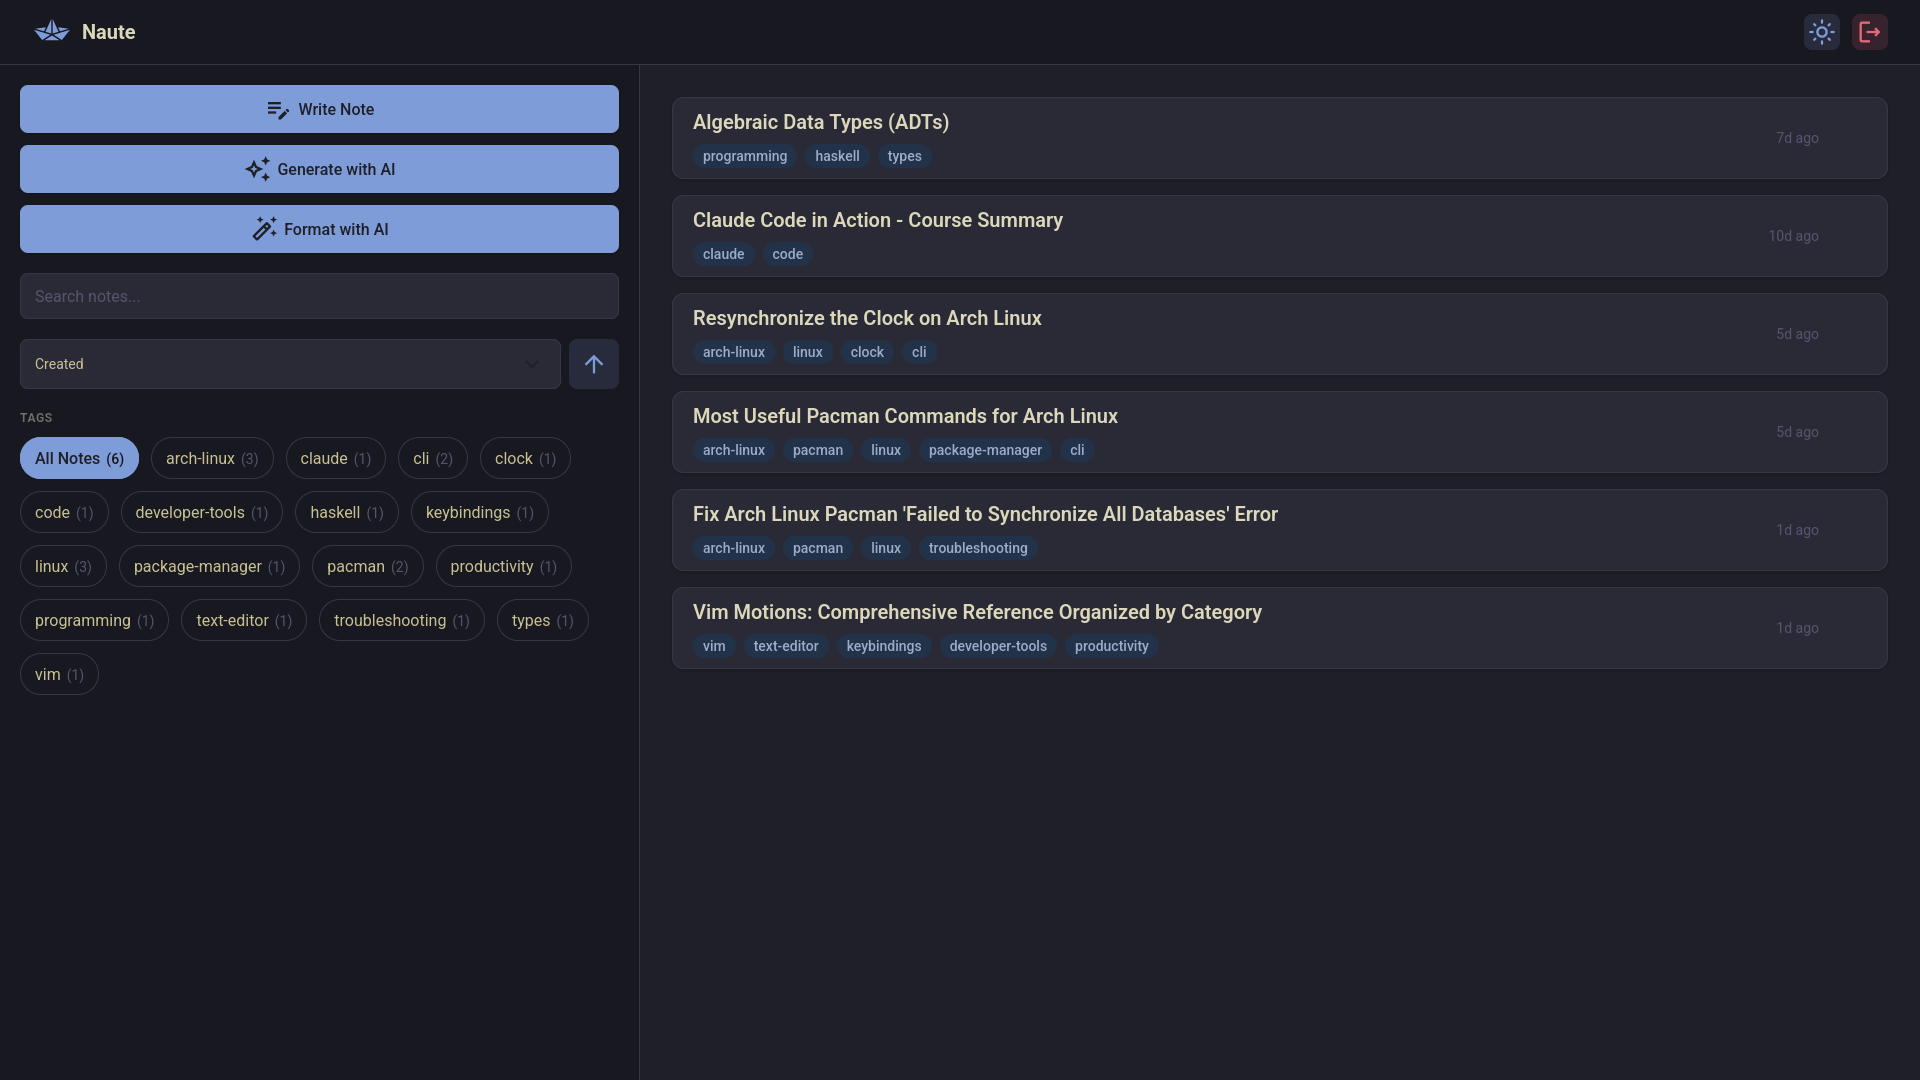
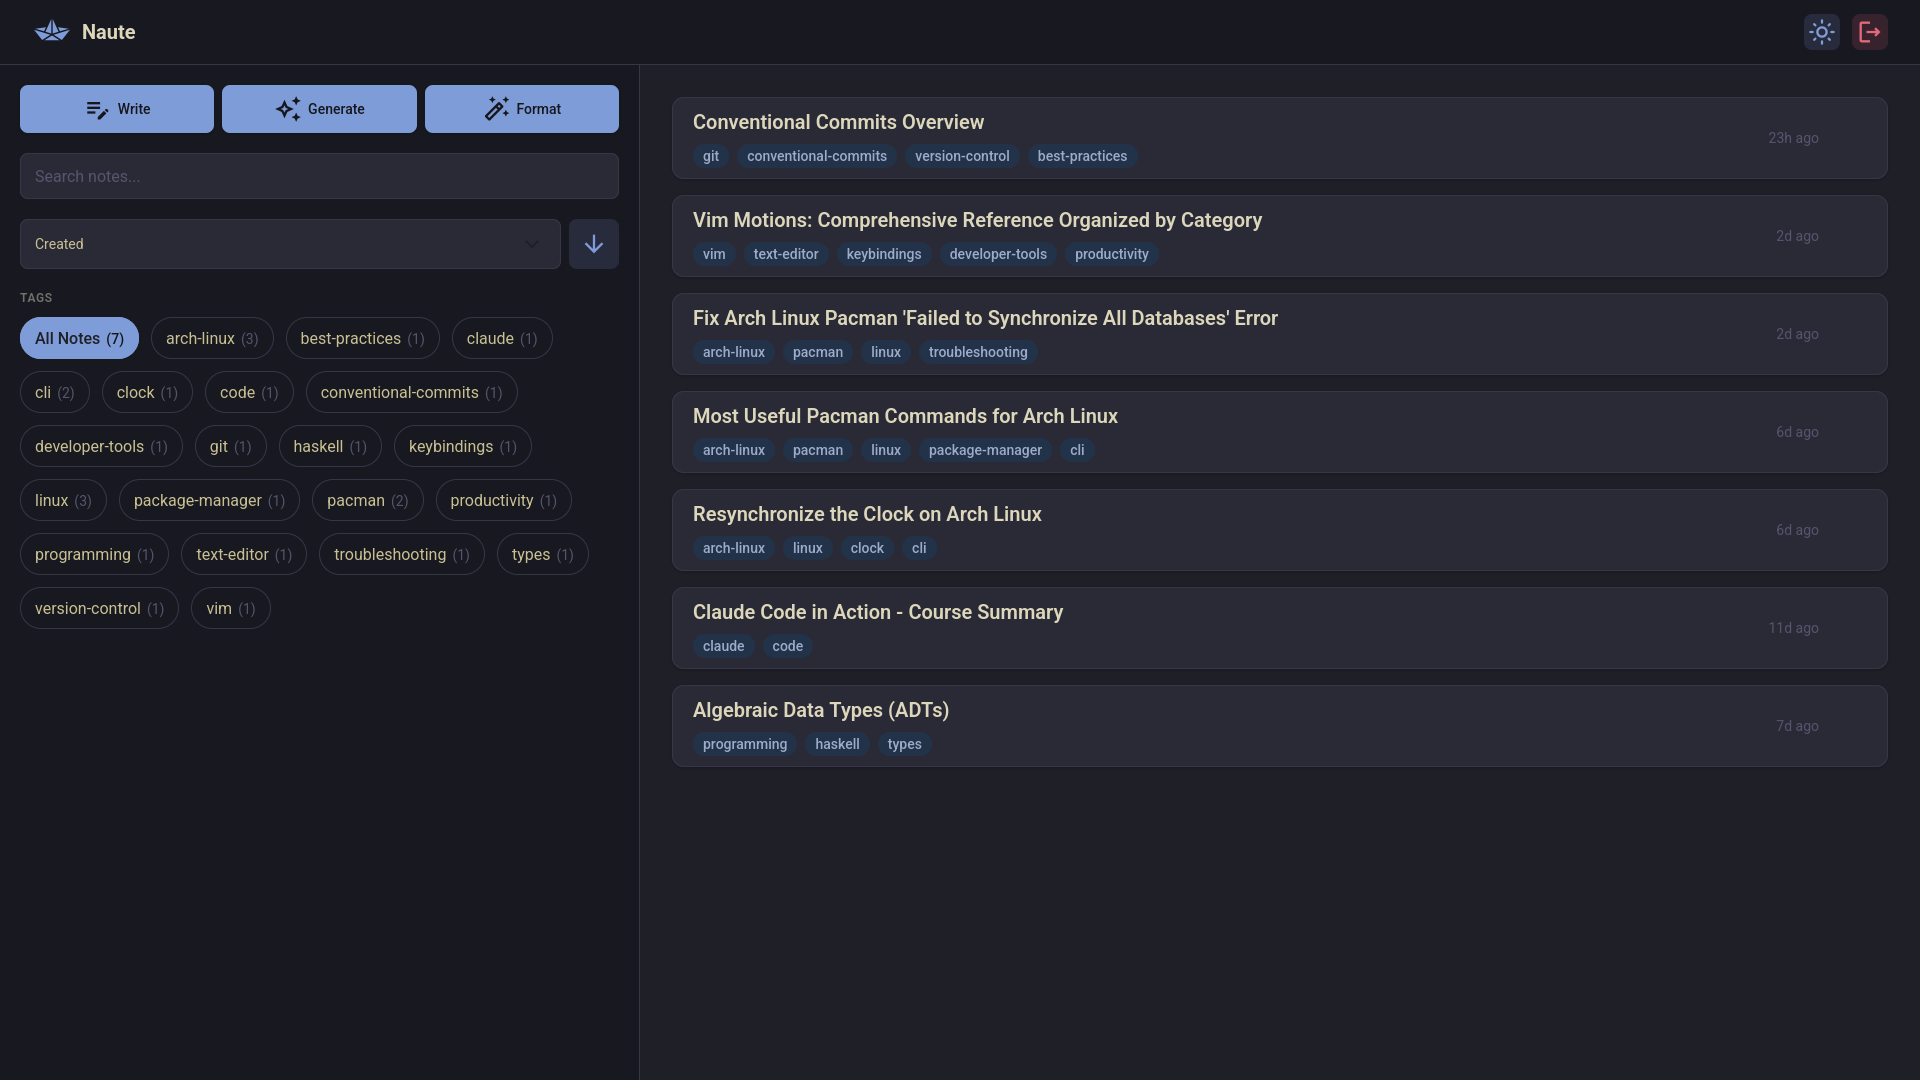
feat: Display note action buttons horizontally to improve page layout.

diff --git a/frontend/src/components/sidebar.tsx b/frontend/src/components/sidebar.tsx
@@ -55,42 +55,44 @@ export const Sidebar = ({
 
   return (
     <div className="flex h-full flex-col p-5">
-      <Link
-        to="/notes/new"
-        className={cn(
-          "mb-3 flex items-center justify-center gap-1.5",
-          "rounded-lg px-4 py-2.5 text-base font-medium",
-          "bg-accent text-accent-fg shadow-soft",
-          "hover:bg-accent-hover transition-colors",
-        )}
-      >
-        <span className="material-icons-outlined text-lg">edit_note</span>
-        Write Note
-      </Link>
-      <button
-        onClick={onGenerateClick}
-        className={cn(
-          "mb-3 flex w-full items-center justify-center gap-1.5",
-          "rounded-lg px-4 py-2.5 text-base font-medium",
-          "bg-accent text-accent-fg shadow-soft",
-          "hover:bg-accent-hover transition-colors",
-        )}
-      >
-        <span className="material-icons-outlined text-lg">auto_awesome</span>
-        Generate with AI
-      </button>
-      <button
-        onClick={onFormatClick}
-        className={cn(
-          "mb-5 flex w-full items-center justify-center gap-1.5",
-          "rounded-lg px-4 py-2.5 text-base font-medium",
-          "bg-accent text-accent-fg shadow-soft",
-          "hover:bg-accent-hover transition-colors",
-        )}
-      >
-        <span className="material-icons-outlined text-lg">auto_fix_high</span>
-        Format with AI
-      </button>
+      <div className="mb-5 flex gap-2">
+        <Link
+          to="/notes/new"
+          className={cn(
+            "flex flex-1 items-center justify-center gap-1.5",
+            "rounded-lg px-3 py-2.5 text-sm font-medium",
+            "bg-accent text-accent-fg shadow-soft",
+            "hover:bg-accent-hover cursor-pointer transition-colors",
+          )}
+        >
+          <span className="material-icons-outlined text-lg">edit_note</span>
+          Write
+        </Link>
+        <button
+          onClick={onGenerateClick}
+          className={cn(
+            "flex flex-1 items-center justify-center gap-1.5",
+            "rounded-lg px-3 py-2.5 text-sm font-medium",
+            "bg-accent text-accent-fg shadow-soft",
+            "hover:bg-accent-hover cursor-pointer transition-colors",
+          )}
+        >
+          <span className="material-icons-outlined text-lg">auto_awesome</span>
+          Generate
+        </button>
+        <button
+          onClick={onFormatClick}
+          className={cn(
+            "flex flex-1 items-center justify-center gap-1.5",
+            "rounded-lg px-3 py-2.5 text-sm font-medium",
+            "bg-accent text-accent-fg shadow-soft",
+            "hover:bg-accent-hover cursor-pointer transition-colors",
+          )}
+        >
+          <span className="material-icons-outlined text-lg">auto_fix_high</span>
+          Format
+        </button>
+      </div>
       <input
         type="text"
         placeholder="Search notes..."
